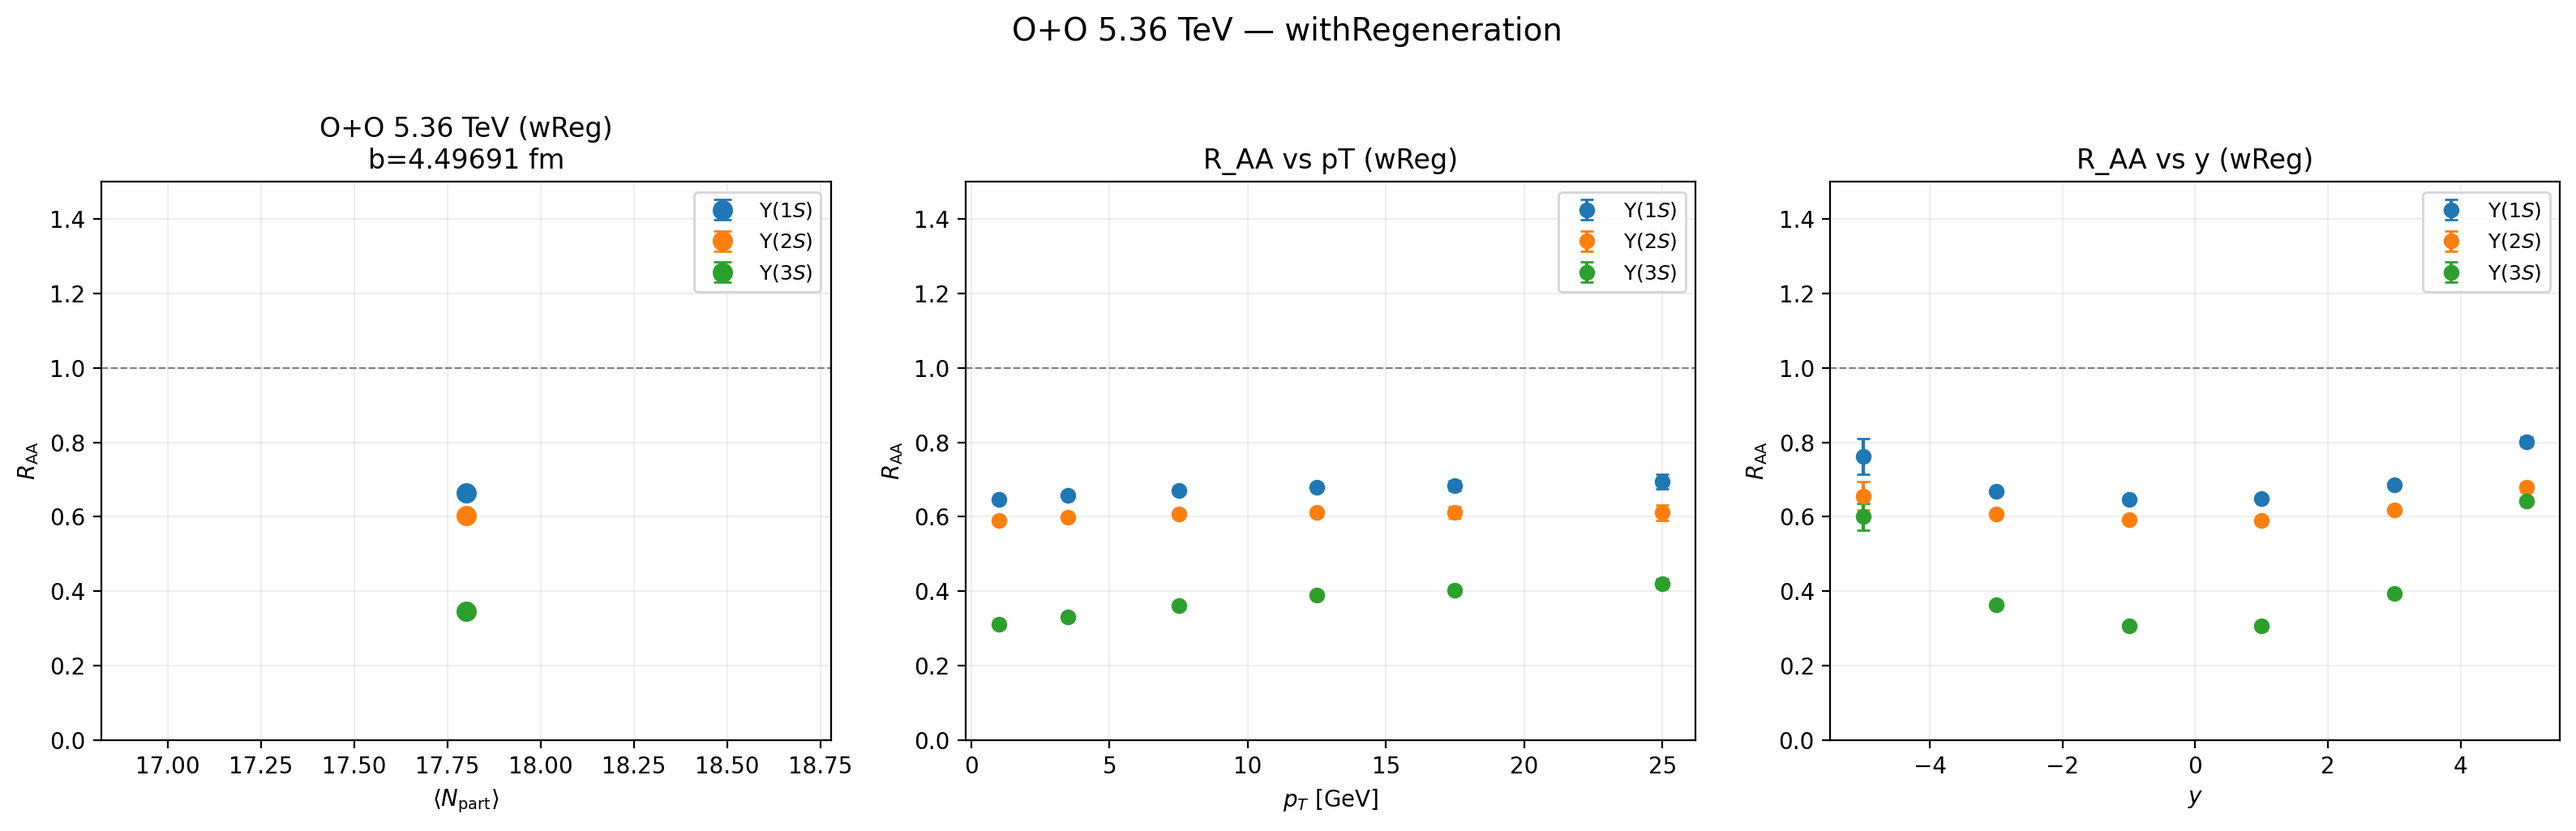
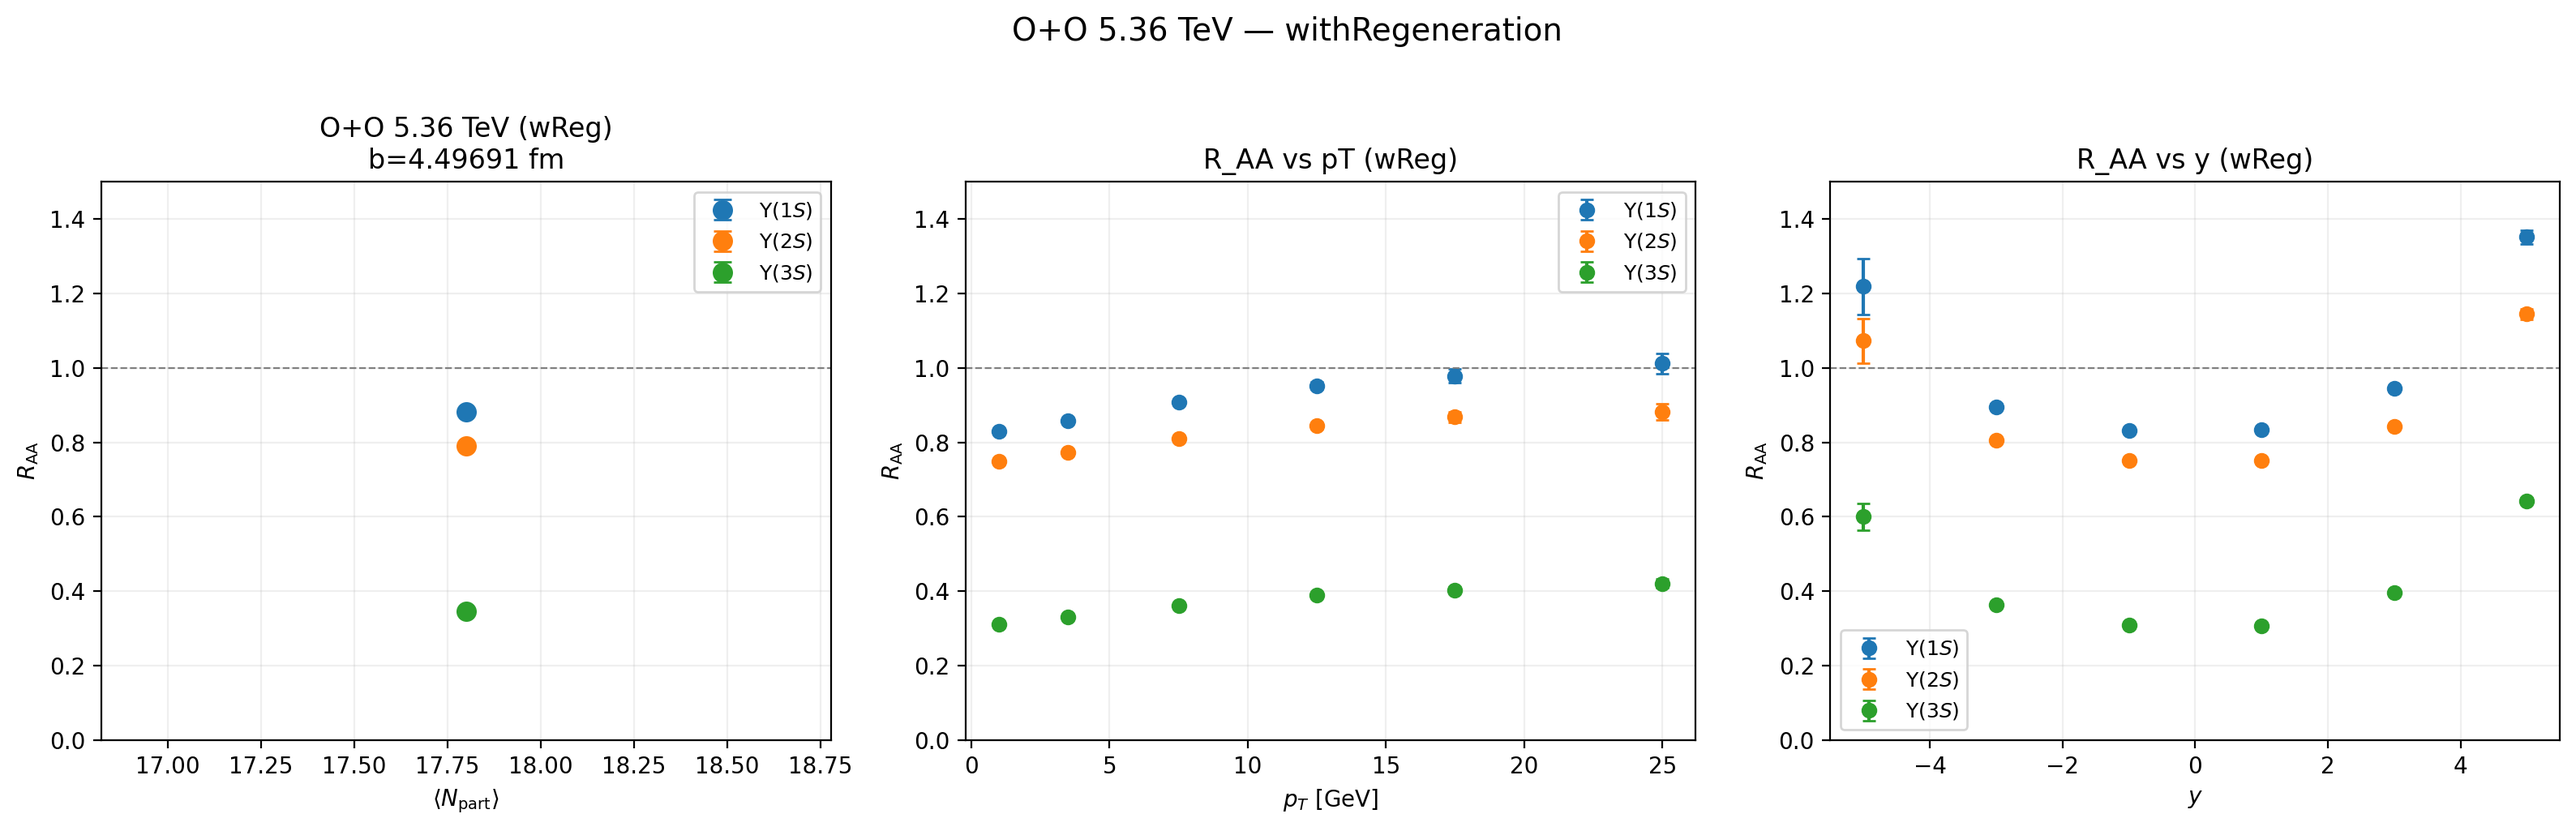
fix(oo): wReg survival = direct + regeneration columns
The 14-column wReg format has two components:
  cols 0-5: direct evolution survival
  cols 6-11: regeneration contribution
Total R_AA = cols 0-5 + cols 6-11

Before fix (only cols 0-5): 1S=0.662 (wrong - more suppression than noReg)
After fix (cols 0-5 + 6-11): 1S=0.883 (correct - regeneration reduces suppression)

noReg: 1S=0.774 2S=0.563 3S=0.450
wReg:  1S=0.883 2S=0.791 3S=0.345

diff --git a/hnm/qtraj_out_analysis/scripts/run_oo_5360_production.py b/hnm/qtraj_out_analysis/scripts/run_oo_5360_production.py
@@ -191,48 +191,34 @@ def read_oo_datafile(datafile: str, logger: logging.Logger) -> np.ndarray:
                 i += 2
 
     elif ncols_data == 14:
-        # wReg format: 4-row records (meta+data1, meta+data2)
-        # data1: 14 cols — first 6 are S-wave survival (v1-v6)
-        # data2: 14 cols — may contain P-wave or regeneration info
+        # wReg format: 4-row records.
+        # Structure: (meta, data, meta_copy, data_zero)
+        # data (first data row) 14 columns:
+        #   cols 0-5:  direct evolution survival (6 states)
+        #   cols 6-11: regeneration contribution (6 states)
+        #   col 12:    qweight
+        # Total R_AA = cols 0-5 + cols 6-11
+        # data_zero (second data row) is mostly zeros — ignore it.
         i = 0
         while i < len(lines) - 3:
             m1 = lines[i].split()
             d1 = lines[i + 1].split()
-            m2 = lines[i + 2].split()
-            d2 = lines[i + 3].split()
 
-            if len(m1) != 7 or len(d1) != 14 or len(m2) != 7 or len(d2) != 14:
+            if len(m1) != 7 or len(d1) != 14:
                 i += 1
                 continue
 
-            s_data = [float(x) for x in d1[:6]]
-            p_data = [float(x) for x in d2[:6]]
-            s_meta = [float(x) for x in m1]
-
-            # Combine S-wave from data1 and P-wave from data2
-            # If P-wave data is all zero, just use S-wave
-            if abs(p_data[2]) > 0.001 or abs(p_data[4]) > 0.001:
-                surv6 = np.array(
-                    [
-                        s_data[0],
-                        s_data[1],
-                        p_data[2],
-                        s_data[3],
-                        p_data[4],
-                        s_data[5],
-                    ],
-                    dtype=np.float64,
-                )
-            else:
-                surv6 = np.array(s_data, dtype=np.float64)
-
+            meta = [float(x) for x in m1]
+            direct = np.array([float(x) for x in d1[:6]], dtype=np.float64)
+            regen = np.array([float(x) for x in d1[6:12]], dtype=np.float64)
+            surv6 = direct + regen
             qweight = float(d1[12]) if len(d1) > 12 else 1.0
 
             obs_list.append(
                 {
                     "surv6": surv6,
-                    "pt": s_meta[4],
-                    "y": s_meta[6],
+                    "pt": meta[4],
+                    "y": meta[6],
                     "qweight": qweight,
                 }
             )
